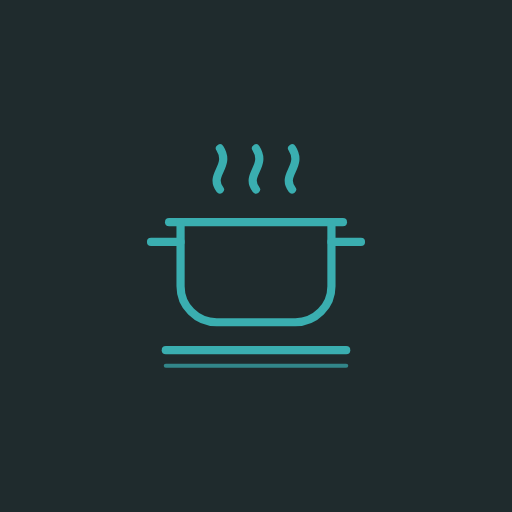
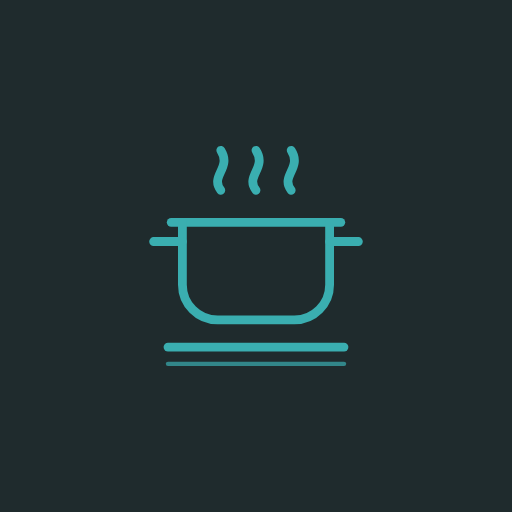
Version 74: App-Symbol im Android-Format (randlos, maskable, monochrome)
Claude-Session: https://claude.ai/code/session_01SbUVCk3EZ9ESarJDGD22Xh

diff --git a/sw.js b/sw.js
@@ -1,6 +1,6 @@
 /* Offline-Unterstützung: App-Dateien werden zwischengespeichert, Daten kommen immer frisch von Supabase. */
-const VERSION = "rb-v73";
-const SHELL = ["./", "index.html", "style.css", "app.js", "config.js", "nutrition.js", "vendor/supabase.js", "vendor/jspdf.umd.min.js", "manifest.webmanifest?i=5", "icons/icon-192.png?i=5", "icons/icon-512.png?i=5", "icons/apple-touch-icon.png?i=5", "icons/icon.svg?i=5", "icons/icon-dark.svg?i=4", "icons/icon-light.svg?i=4", "icons/standard.svg", "icons/kat-kuchen.svg", "icons/kat-kekse.svg", "icons/kat-brot.svg", "icons/kat-dessert.svg", "icons/kat-hauptgericht.svg", "icons/kat-suppen.svg", "icons/kat-saucen.svg", "icons/kat-beilagen.svg", "icons/kat-grundrezepte.svg", "icons/favicon-32.png?i=5"];
+const VERSION = "rb-v74";
+const SHELL = ["./", "index.html", "style.css", "app.js", "config.js", "nutrition.js", "vendor/supabase.js", "vendor/jspdf.umd.min.js", "manifest.webmanifest?i=6", "icons/icon-192.png?i=6", "icons/icon-512.png?i=6", "icons/icon-maskable-512.png?i=6", "icons/icon-monochrome-512.png?i=6", "icons/apple-touch-icon.png?i=6", "icons/icon.svg?i=6", "icons/icon-dark.svg?i=4", "icons/icon-light.svg?i=4", "icons/standard.svg", "icons/kat-kuchen.svg", "icons/kat-kekse.svg", "icons/kat-brot.svg", "icons/kat-dessert.svg", "icons/kat-hauptgericht.svg", "icons/kat-suppen.svg", "icons/kat-saucen.svg", "icons/kat-beilagen.svg", "icons/kat-grundrezepte.svg", "icons/favicon-32.png?i=6"];
 self.addEventListener("install", e => { e.waitUntil(caches.open(VERSION).then(c => c.addAll(SHELL)).then(() => self.skipWaiting())); });
 self.addEventListener("activate", e => { e.waitUntil(caches.keys().then(keys => Promise.all(keys.filter(k => k !== VERSION).map(k => caches.delete(k)))).then(() => self.clients.claim())); });
 self.addEventListener("fetch", e => {

diff --git a/index.html b/index.html
@@ -10,13 +10,13 @@
 <meta name="mobile-web-app-capable" content="yes">
 <meta name="apple-mobile-web-app-title" content="Rezeptbuch">
 <meta name="apple-mobile-web-app-status-bar-style" content="default">
-<link rel="manifest" href="manifest.webmanifest?i=5">
-<link rel="icon" href="icons/icon.svg?i=5" type="image/svg+xml">
-<link rel="icon" href="icons/favicon-32.png?i=5" sizes="32x32" type="image/png">
-<link rel="apple-touch-icon" href="icons/apple-touch-icon.png?i=5">
+<link rel="manifest" href="manifest.webmanifest?i=6">
+<link rel="icon" href="icons/icon.svg?i=6" type="image/svg+xml">
+<link rel="icon" href="icons/favicon-32.png?i=6" sizes="32x32" type="image/png">
+<link rel="apple-touch-icon" href="icons/apple-touch-icon.png?i=6">
 <link rel="preconnect" href="https://fonts.googleapis.com">
 <link rel="stylesheet" href="https://fonts.googleapis.com/css2?family=Playfair+Display:wght@500;600;700&family=Inter:wght@400;500;600;700&display=swap">
-<link rel="stylesheet" href="style.css?v=73">
+<link rel="stylesheet" href="style.css?v=74">
 <style>
   html { padding-top: env(safe-area-inset-top, 0px); padding-bottom: env(safe-area-inset-bottom, 0px); }
   body { margin: 0; }
@@ -30,10 +30,10 @@
   <div class="empty"><h2>Wird geladen …</h2></div>
 </div>
 <div class="toast" id="toast" hidden></div>
-<script src="vendor/supabase.js?v=73"></script>
-<script src="vendor/jspdf.umd.min.js?v=73" defer></script>
-<script src="config.js?v=73"></script>
-<script src="nutrition.js?v=73"></script>
-<script src="app.js?v=73"></script>
+<script src="vendor/supabase.js?v=74"></script>
+<script src="vendor/jspdf.umd.min.js?v=74" defer></script>
+<script src="config.js?v=74"></script>
+<script src="nutrition.js?v=74"></script>
+<script src="app.js?v=74"></script>
 </body>
 </html>
